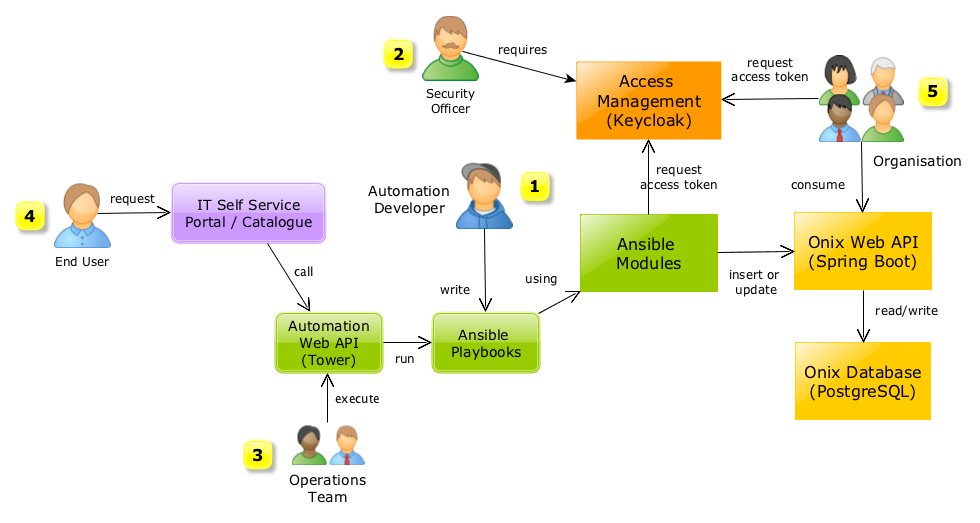
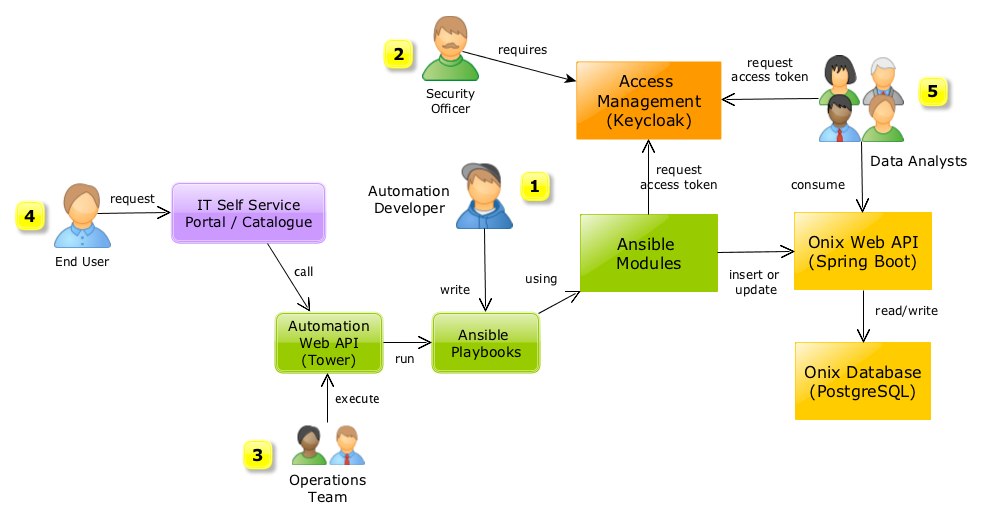
.

diff --git a/docs/overview.md b/docs/overview.md
@@ -42,7 +42,7 @@ Is concerned with **requesting catalogue items** to be promptly deployed.
 An IT Self Service portal provides the means to issue configuration changes requests to the Automation Web API.
 Configuration data changes are automatically recorded by the Ansible playbooks.
 
-### Wider organisation [5] [(up)](#toc)
+### Data Analyst [5] [(up)](#toc)
 
 Is concerned with **querying accurate configuration information at all times** for a variety of purposes.
 
